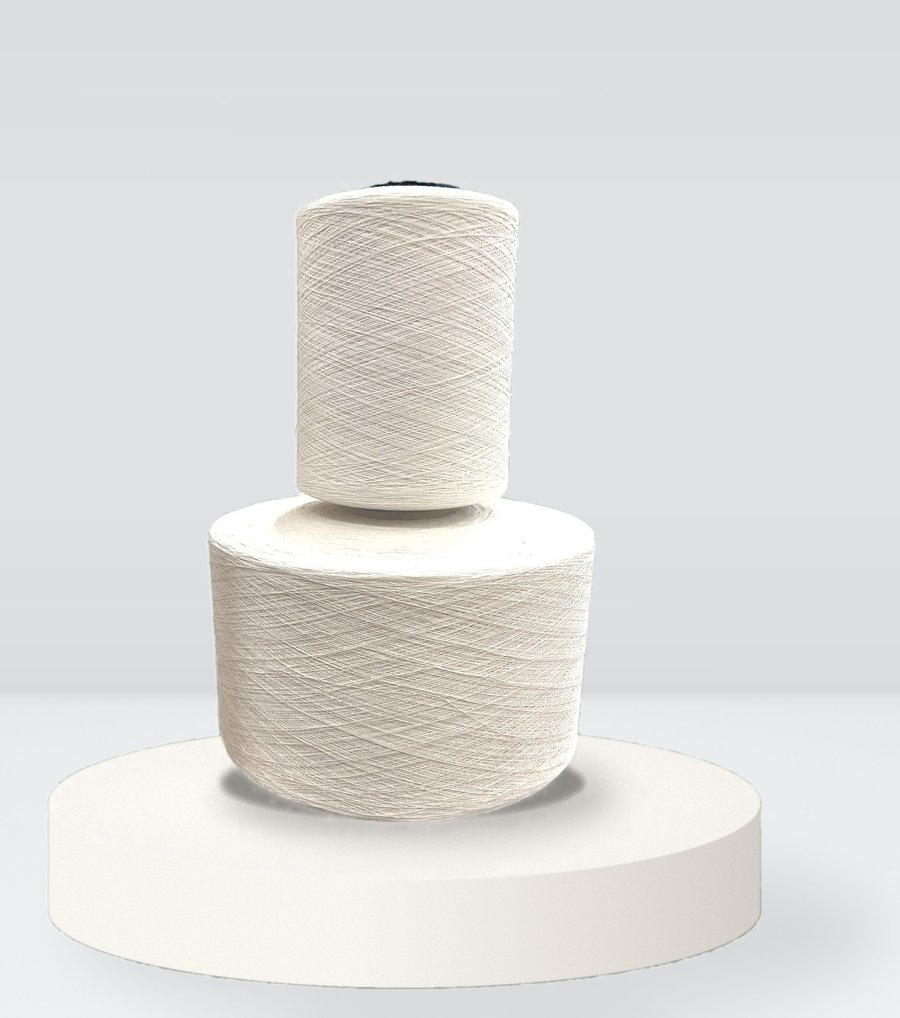
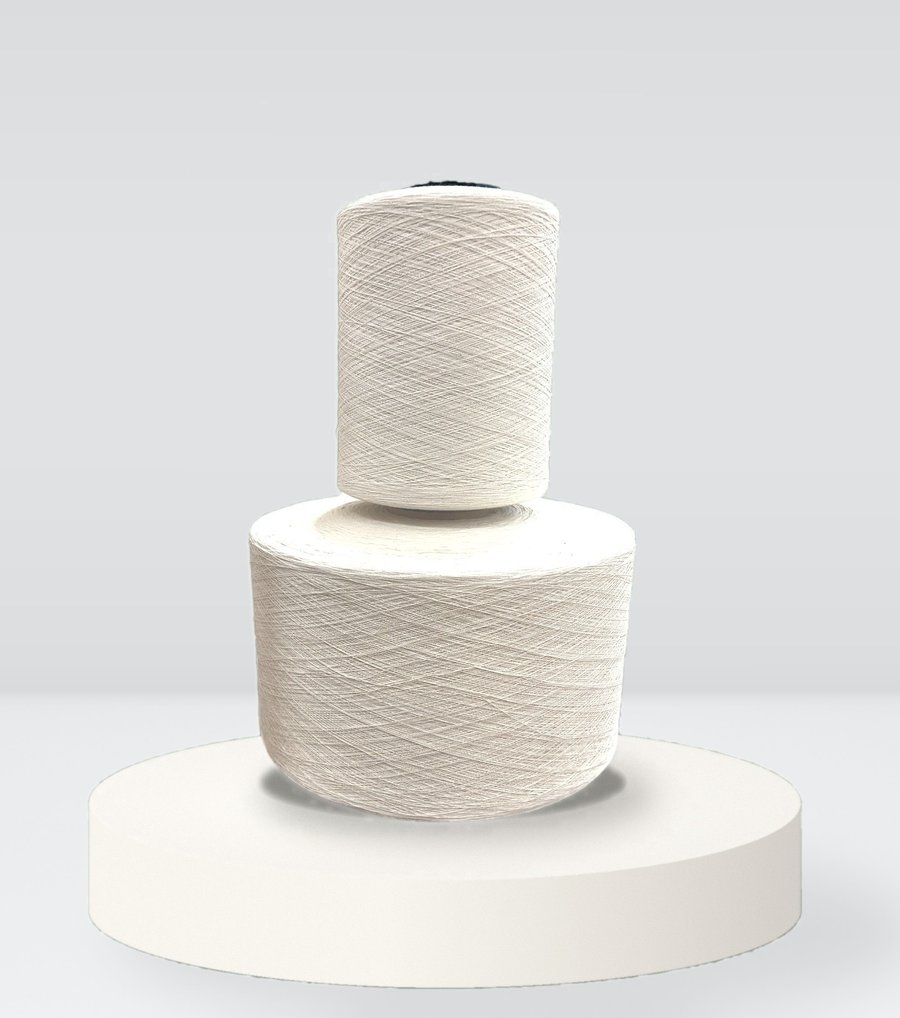
Home yarn photo: centre the cones in the frame
Claude-Session: https://claude.ai/code/session_016sCuQqi6TPsQvyxFB8uVLd

diff --git a/docs/ru/index.html b/docs/ru/index.html
@@ -115,7 +115,7 @@
 
     <section class="section">
       <div class="container split">
-        <div class="split-media"><figure class="media media-feature"><img src="../assets/img/yarn-feature.jpg?v=5ca8f5a3" alt="Производство пряжи ALTYN PAMYK" loading="lazy"></figure></div>
+        <div class="split-media"><figure class="media media-feature"><img src="../assets/img/yarn-feature.jpg?v=15e1acb7" alt="Производство пряжи ALTYN PAMYK" loading="lazy"></figure></div>
         <div >
           <p class="eyebrow">Торговая марка ALTYN PAMYK</p>
           <h2>Собственное производство пряжи</h2>

diff --git a/docs/tk/index.html b/docs/tk/index.html
@@ -115,7 +115,7 @@
 
     <section class="section">
       <div class="container split">
-        <div class="split-media"><figure class="media media-feature"><img src="../assets/img/yarn-feature.jpg?v=5ca8f5a3" alt="ALTYN PAMYK ýüplük önümçiligi" loading="lazy"></figure></div>
+        <div class="split-media"><figure class="media media-feature"><img src="../assets/img/yarn-feature.jpg?v=15e1acb7" alt="ALTYN PAMYK ýüplük önümçiligi" loading="lazy"></figure></div>
         <div >
           <p class="eyebrow">ALTYN PAMYK haryt nyşany</p>
           <h2>Öz ýüplük önümçiligimiz</h2>

diff --git a/docs/en/index.html b/docs/en/index.html
@@ -115,7 +115,7 @@
 
     <section class="section">
       <div class="container split">
-        <div class="split-media"><figure class="media media-feature"><img src="../assets/img/yarn-feature.jpg?v=5ca8f5a3" alt="ALTYN PAMYK yarn manufacturing" loading="lazy"></figure></div>
+        <div class="split-media"><figure class="media media-feature"><img src="../assets/img/yarn-feature.jpg?v=15e1acb7" alt="ALTYN PAMYK yarn manufacturing" loading="lazy"></figure></div>
         <div >
           <p class="eyebrow">ALTYN PAMYK brand</p>
           <h2>Our own yarn mill</h2>
